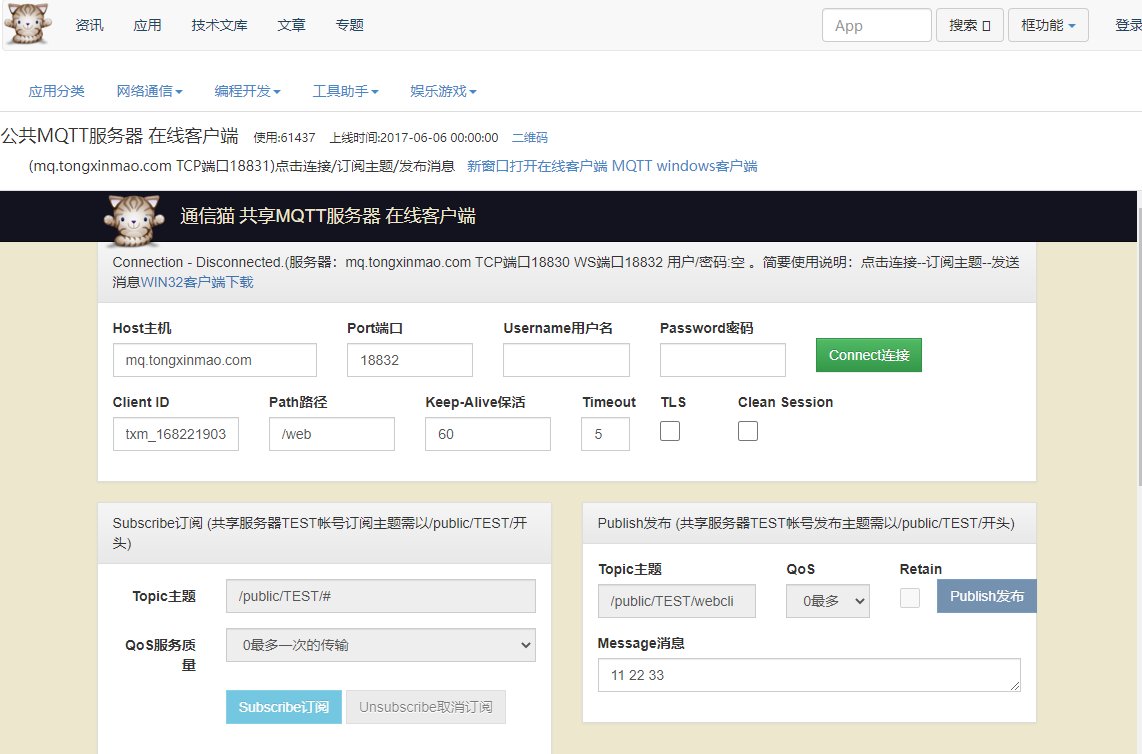
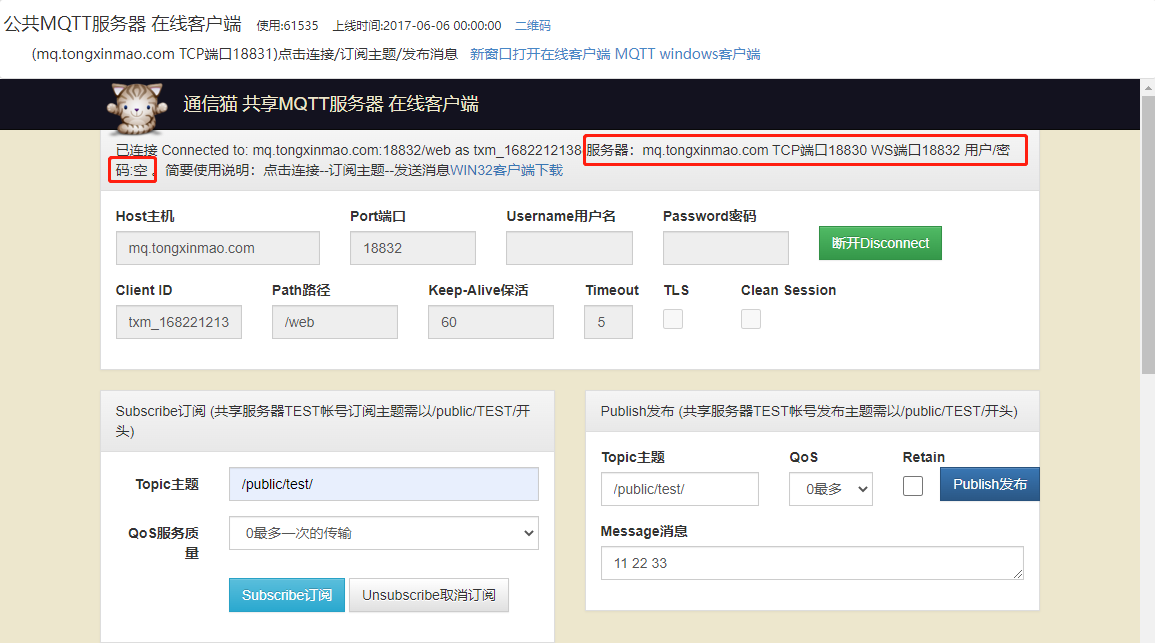
update: 更新DTU案例演示

diff --git a/docs/Getting_started/zh/solutions/dtu.md b/docs/Getting_started/zh/solutions/dtu.md
@@ -73,11 +73,35 @@ DTU运行成功，在QPYcom的"交互"窗口中，可观察到打印如下。
 
 ![](../media/solutions/dtu/dtu_init.png)
 
-## 私有云MQTT案例演示
+## 基于MQTT协议的DTU案例演示
 
-本案例演示采用`http://www.tongxinmao.com/App/Detail/id/126`公共mqtt私有云。
+本节以通信猫的MQTT服务器为例演示DTU方案的运行效果。
+
+### 在线MQTT客户端
+
+访问`mq.tongxinmao.com`可见如下页面：
 
 ![tongxinmao_mqtt.png](../media/solutions/dtu/tongxinmao_mqtt.png)
+
+> 从上文图示中可以获取mqtt服务器相关参数 —— 服务器参数与我们的DTU配置的参数保持一致。
+>
+> - 服务器地址： ` mq.tongxinmao.com `
+> - 端口：`18830`
+> - 用户名：<空>
+> - 密码：<空>
+>
+> 订阅主题：`/public/test/`
+>
+> 发布主题：`/public/test/`
+
+配置好在线客户端后，点击`Connect连接`（点击后按钮变为`断开Disconnect`即表示在线客户端已连接）。
+
+接下来，我们分别进行**向云端发送消息**和**云端向设备发送信息**两个方向来演示案例。
+
+> 解释：
+>
+> - 向云端发送消息：即DTU接收串口数据，发送给MQTT服务，我们通过在线客户端观察收到的消息数据。
+> - 云端向设备发送信息：即我们通过在线客户端发送消息，DTU收到订阅的消息数据后写入串口，我们通过串口调试工具观察收到的消息数据。
 
 ### 向云端发送消息
 
